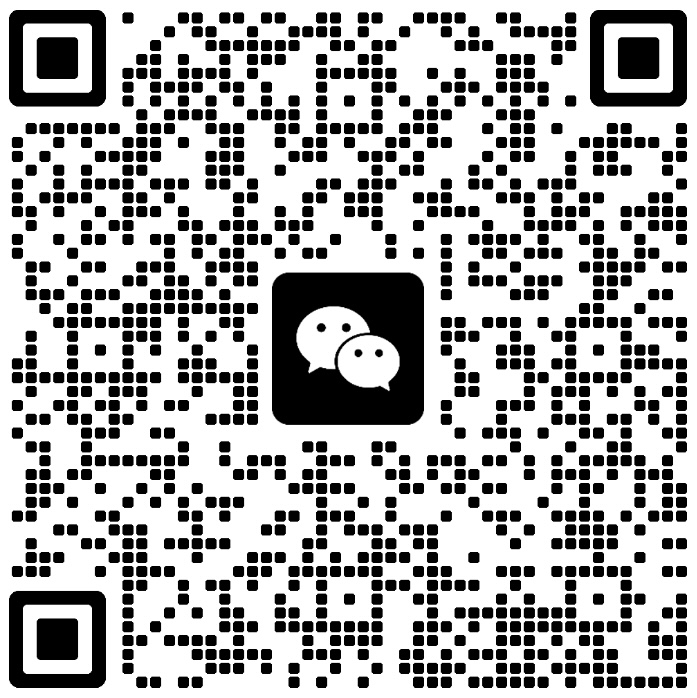
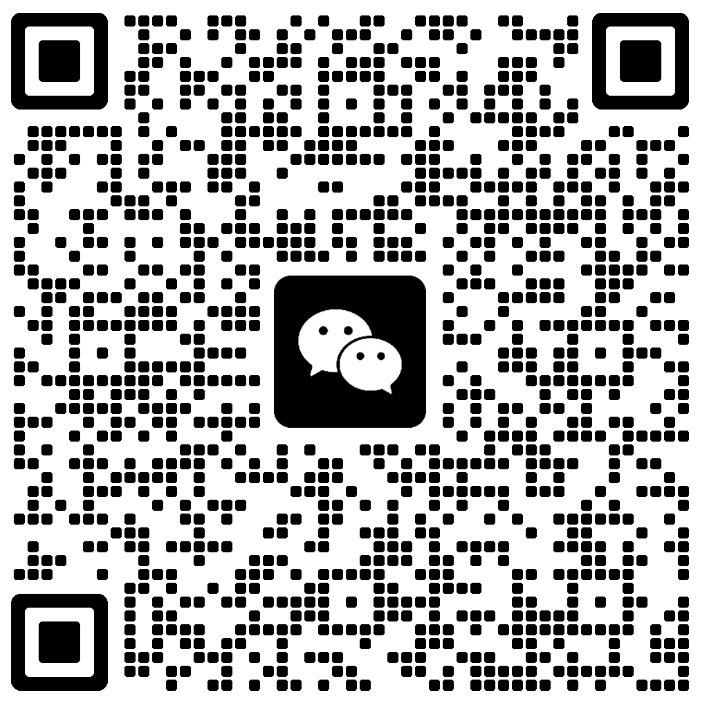
Update README star chart and QR code

diff --git a/README.md b/README.md
@@ -279,8 +279,6 @@ If you would like to cite our work, please use the following BibTeX.
 
 If you find this work helpful, please consider to **star⭐** this [repo](https://github.com/InternScience/SGI-Bench). Thanks for your support! 🤩
 
-[![InternScience/SGI-Bench Stargazers](https://reporoster.com/stars/InternScience/SGI-Bench)](https://github.com/InternScience/SGI-Bench/stargazers)
-
-[![Star History Chart](https://api.star-history.com/svg?repos=InternScience/SGI-Bench,TIGER-AI-Lab/MMLU-Pro,MMMU-Benchmark/MMMU,idavidrein/gpqa,SuperGPQA/SuperGPQA&type=date&legend=top-left)](https://www.star-history.com/#InternScience/SGI-Bench&TIGER-AI-Lab/MMLU-Pro&MMMU-Benchmark/MMMU&idavidrein/gpqa&SuperGPQA/SuperGPQA&type=date&legend=top-left)
+[![Star History Chart](https://api.star-history.com/svg?repos=InternScience/SGI-Bench&type=date&legend=top-left)](https://www.star-history.com/#InternScience/SGI-Bench&type=date)
 
 <p align="right"><a href="#top">🔝Back to top</a></p>
